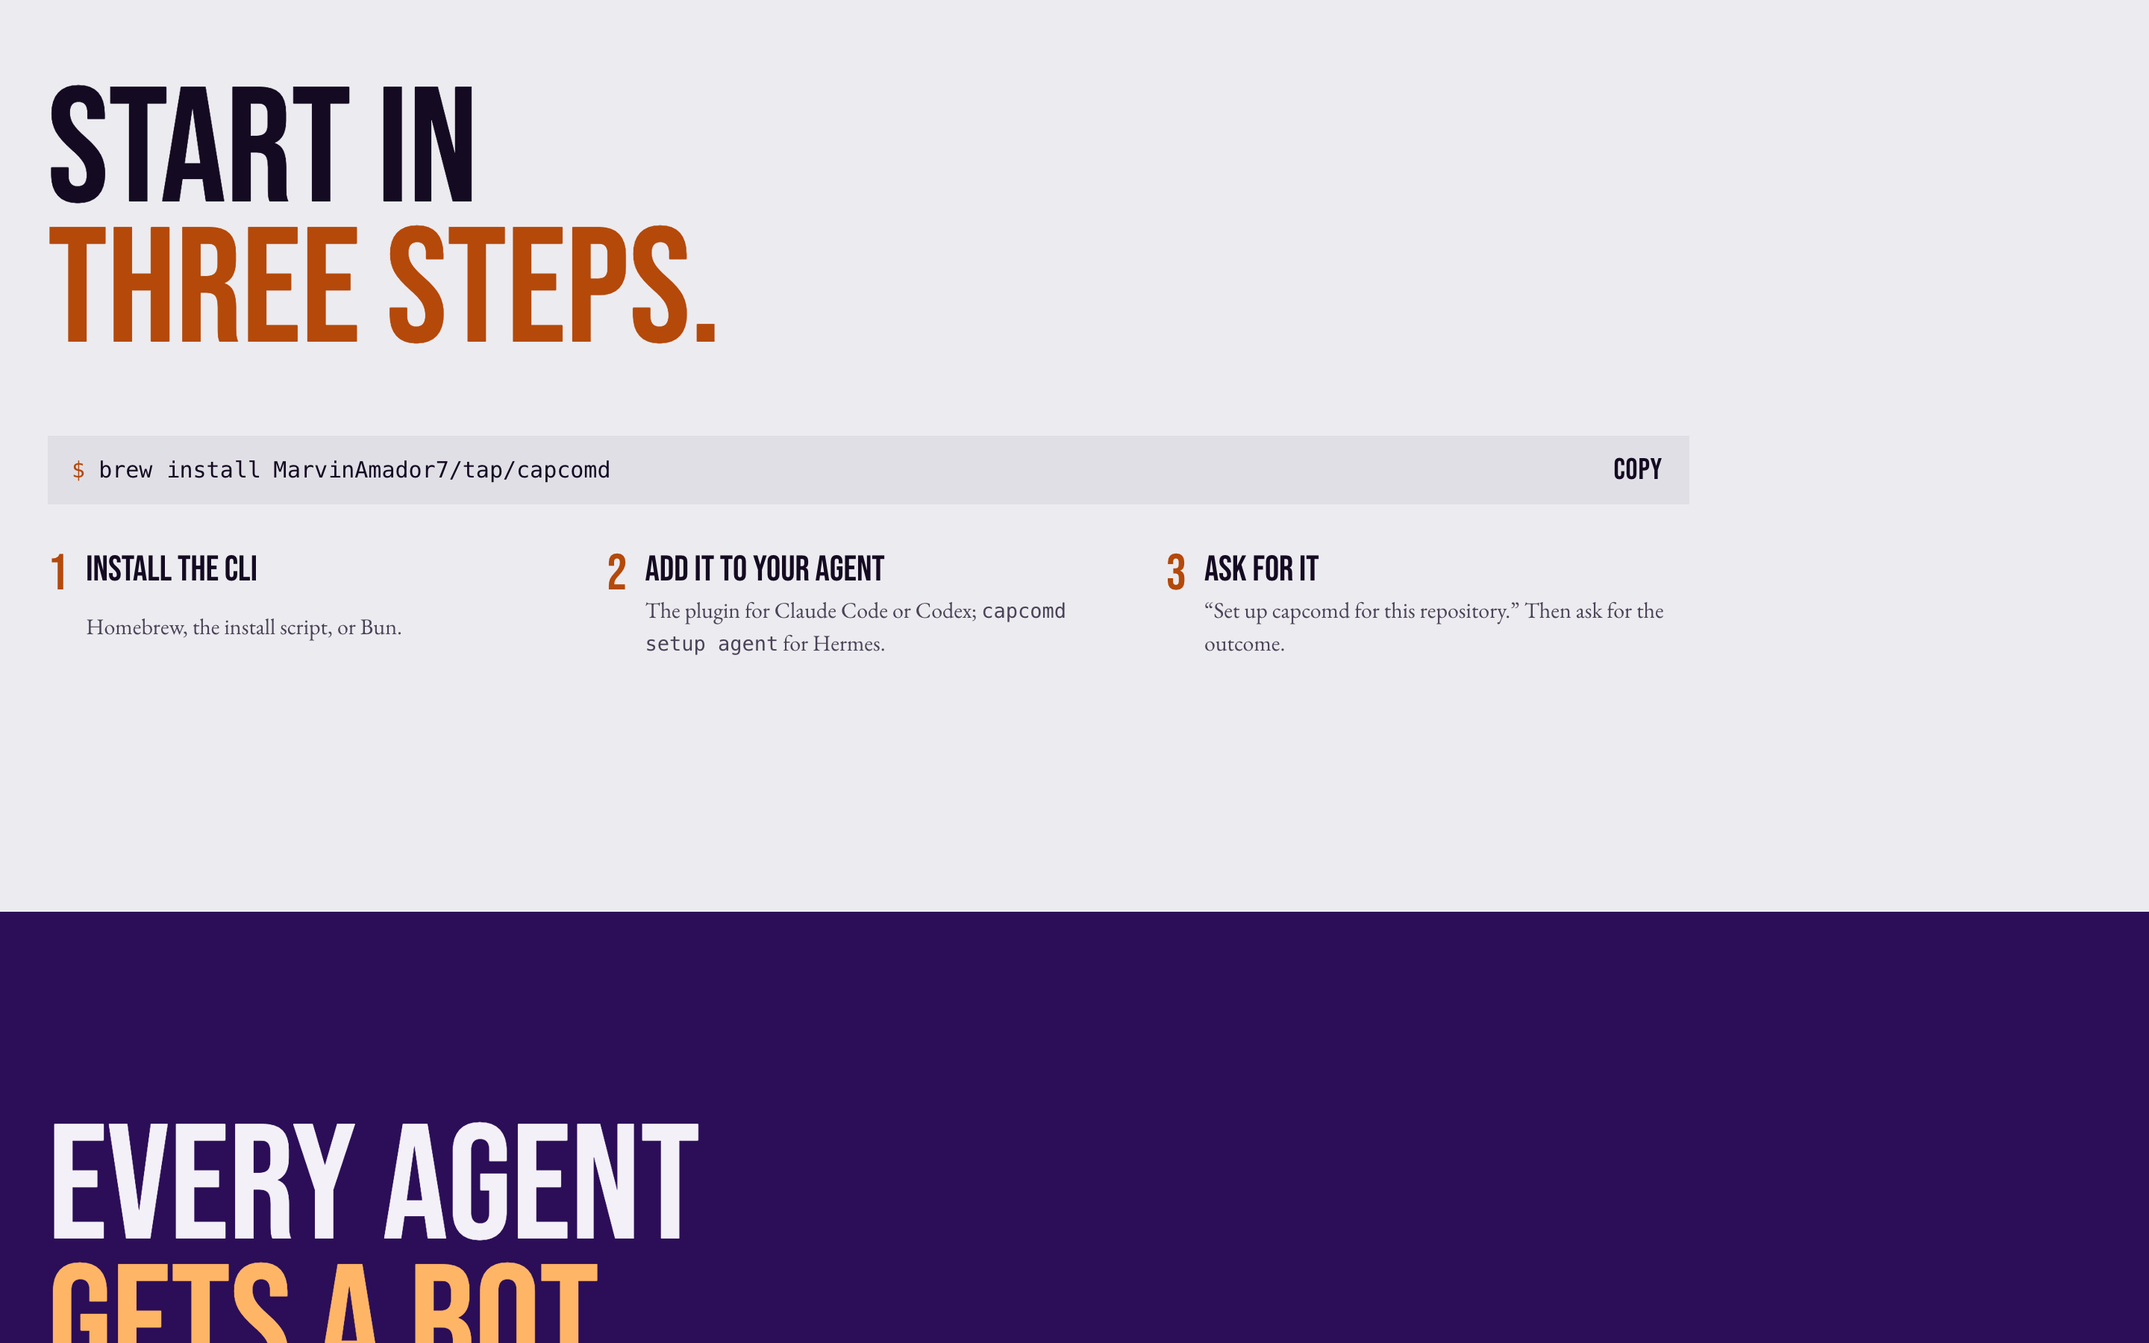
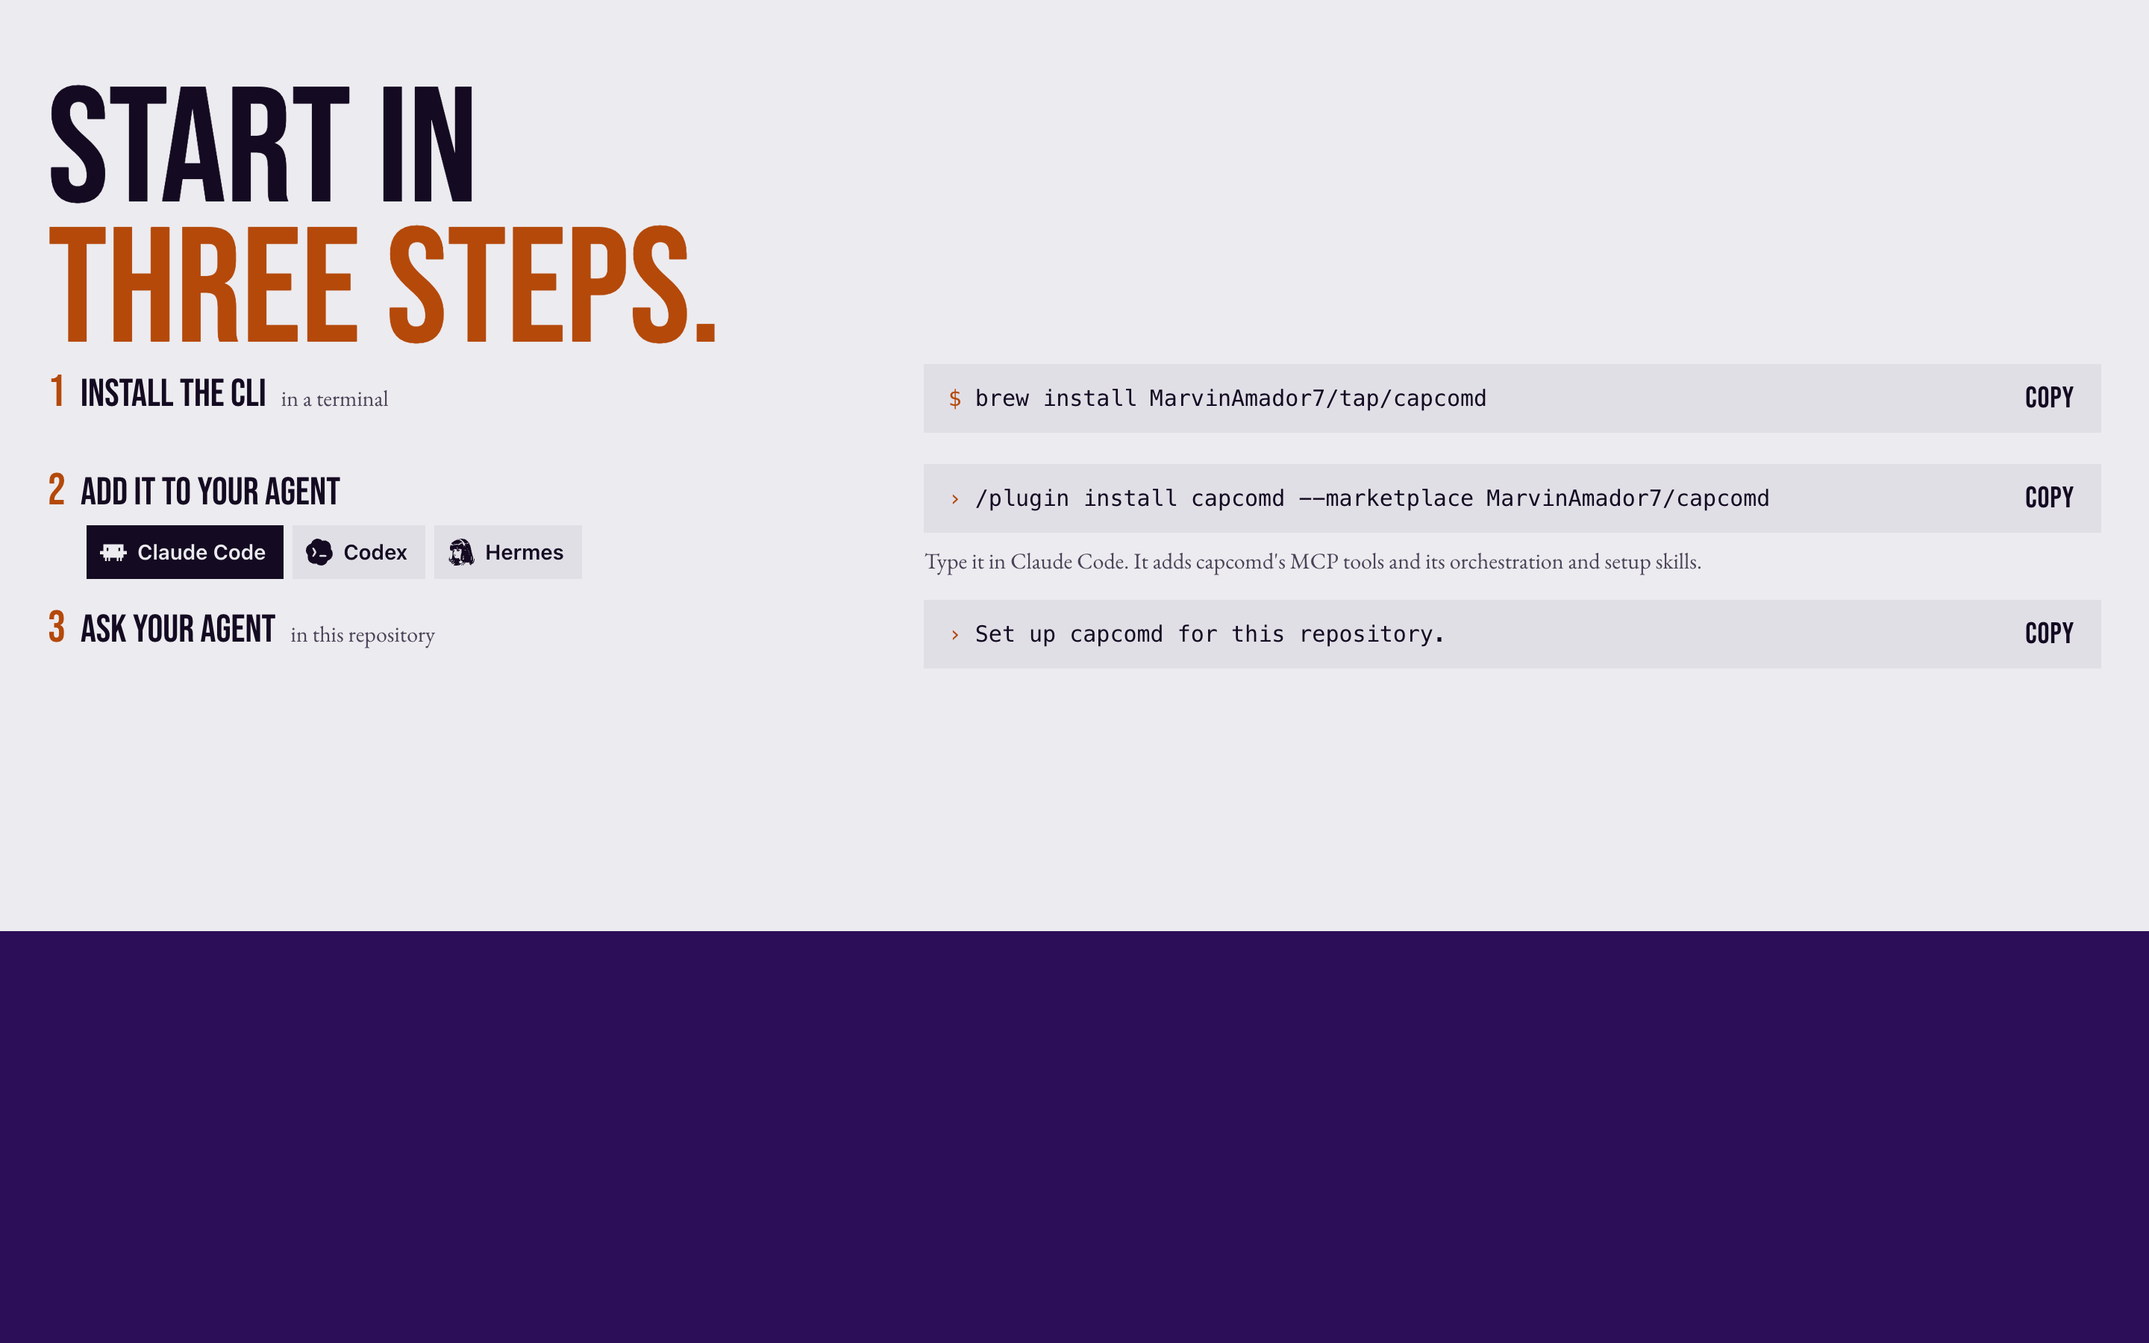
site: the install as three clear steps, each with its exact command
The bare "Or copy it for [icons]" row was unclear. The hero, and Start in
three steps, now show three rows:
1. Install the CLI (in a terminal): the brew command.
2. Add it to your agent, with a tab each for Claude Code, Codex and Hermes:
   that agent's exact command and where to run it. The Claude Code command
   is typed in Claude Code; Codex runs `codex plugin marketplace add`, then
   /plugins; Hermes runs `capcomd setup agent` in the repository.
3. Ask your agent: "Set up capcomd for this repository."

Each row has its own Copy button, terminal commands show `$` and agent
prompts show `›`, and commands wrap on phones. The tabs are a radio group
with arrow keys.

diff --git a/site/components/AgentInstall.tsx b/site/components/AgentInstall.tsx
@@ -1,16 +1,15 @@
 "use client";
 
-// One button per coding agent that copies the README's "add capcomd to your agent" step for it (Quickstart, step 1),
-// and says what to do next. Until the page script runs the row keeps its space but stays invisible (no layout shift);
-// the README link beside it works either way.
+// The install flow (README "Quickstart"): install the CLI, add capcomd to your agent, ask it to set things up.
 import { useEffect, useRef, useState } from "react";
 import { AGENT_ICONS } from "@/lib/agent-icons";
 
 const ASK = "Set up capcomd for this repository.";
+// README "Quickstart", step 1 ("Add capcomd to your agent"), per agent.
 const AGENTS = [
-  { id: "claude", name: "Claude Code", copy: "/plugin install capcomd --marketplace MarvinAmador7/capcomd", next: <>Paste it into Claude Code, then ask: &ldquo;{ASK}&rdquo; Verified live.</> },
-  { id: "codex", name: "Codex", copy: "codex plugin marketplace add MarvinAmador7/capcomd", next: <>Run it in a terminal, install capcomd from <code>/plugins</code> in Codex, then ask: &ldquo;{ASK}&rdquo; Built to OpenAI&apos;s plugin format; not yet tried in Codex.</> },
-  { id: "hermes", name: "Hermes", copy: "curl -fsSL https://raw.githubusercontent.com/MarvinAmador7/capcomd/main/install.sh | sh && capcomd setup agent", next: <>Run it in your repository, then ask Hermes: &ldquo;{ASK}&rdquo; Setup tested against Hermes&apos;s config.</> },
+  { id: "claude", name: "Claude Code", prompt: "›", copy: "/plugin install capcomd --marketplace MarvinAmador7/capcomd", where: <>Type it in Claude Code. It adds capcomd&apos;s MCP tools and its orchestration and setup skills.</> },
+  { id: "codex", name: "Codex", prompt: "$", copy: "codex plugin marketplace add MarvinAmador7/capcomd", where: <>Run it in a terminal, then install capcomd from <code>/plugins</code> in Codex.</> },
+  { id: "hermes", name: "Hermes", prompt: "$", copy: "capcomd setup agent", where: <>Run it in your repository. It adds capcomd&apos;s MCP server and skills to Hermes.</> },
 ] as const;
 
 async function copy(text: string): Promise<boolean> {
@@ -25,42 +24,60 @@ async function copy(text: string): Promise<boolean> {
   } catch { return false; }
 }
 
-export function AgentInstall() {
-  const [ready, setReady] = useState(false);
-  const [done, setDone] = useState<{ id: string; ok: boolean } | null>(null);
-  const timer = useRef(0);
-  useEffect(() => { setReady(true); return () => clearTimeout(timer.current); }, []);
-  const a = done && AGENTS.find((x) => x.id === done.id);
+/** The README's Quickstart as three rows, each with the exact command to copy and where to run it. Step 2 has a tab
+ *  per agent. Without the script the Claude Code row is shown and every command can still be selected. */
+export function InstallFlow() {
+  const [agent, setAgent] = useState<(typeof AGENTS)[number]["id"]>("claude");
+  const a = AGENTS.find((x) => x.id === agent)!;
   return (
-    <div className={`agents${ready ? "" : " is-waiting"}`} aria-hidden={ready ? undefined : true}>
-      <div className="agents__row">
-        <span className="agents__lbl">Or copy it for</span>
-        {AGENTS.map((x) => (
-          <button key={x.id} type="button" className={`agents__btn${done?.id === x.id && done.ok ? " is-done" : ""}`} aria-label={`Copy the install command for ${x.name}`}
-            onClick={async () => { const ok = await copy(x.copy); setDone({ id: x.id, ok }); clearTimeout(timer.current); timer.current = window.setTimeout(() => setDone(null), 9000); }}>
-            <svg viewBox="0 0 24 24" fillRule="evenodd" aria-hidden="true" dangerouslySetInnerHTML={{ __html: AGENT_ICONS[x.id] }} />
-            <span>{x.name}</span>
-          </button>
-        ))}
-      </div>
-      <p className="agents__status" role="status">
-        {a ? <><b>{done!.ok ? `Copied for ${a.name}` : `Couldn't copy; for ${a.name}, use`}</b><code>{a.copy}</code>{done!.ok ? <span>{a.next}</span> : null}</> : null}
-      </p>
-    </div>
+    <ol className="flow">
+      <li className="flow__step">
+        <p className="flow__head"><span className="flow__n" aria-hidden="true">1</span><b>Install the CLI</b><small>in a terminal</small></p>
+        <InstallCommand cmd="brew install MarvinAmador7/tap/capcomd" label="the install command" />
+      </li>
+      <li className="flow__step">
+        <div className="flow__head">
+          <span className="flow__n" aria-hidden="true">2</span><b>Add it to your agent</b>
+          <div className="flow__tabs" role="radiogroup" aria-label="Your agent">
+            {AGENTS.map((x, k) => (
+              <button key={x.id} type="button" role="radio" aria-checked={agent === x.id} tabIndex={agent === x.id ? 0 : -1}
+                className={`flow__tab${agent === x.id ? " is-on" : ""}`} onClick={() => setAgent(x.id)}
+                onKeyDown={(e) => {
+                  const d = e.key === "ArrowRight" || e.key === "ArrowDown" ? 1 : e.key === "ArrowLeft" || e.key === "ArrowUp" ? -1 : 0;
+                  if (!d) return;
+                  e.preventDefault();
+                  const n = (k + d + AGENTS.length) % AGENTS.length;
+                  setAgent(AGENTS[n]!.id);
+                  (e.currentTarget.parentElement?.querySelectorAll("button")[n] as HTMLButtonElement | undefined)?.focus();
+                }}>
+                <svg viewBox="0 0 24 24" fillRule="evenodd" aria-hidden="true" dangerouslySetInnerHTML={{ __html: AGENT_ICONS[x.id] }} />
+                <span>{x.name}</span>
+              </button>
+            ))}
+          </div>
+        </div>
+        <InstallCommand key={a.id} cmd={a.copy} prompt={a.prompt} label={`the ${a.name} command`} />
+        <p className="flow__where">{a.where}</p>
+      </li>
+      <li className="flow__step">
+        <p className="flow__head"><span className="flow__n" aria-hidden="true">3</span><b>Ask your agent</b><small>in this repository</small></p>
+        <InstallCommand cmd={ASK} prompt="›" label="the request" />
+      </li>
+    </ol>
   );
 }
 
 /** The install command on the page, with a Copy button (the text stays selectable without the script). */
-export function InstallCommand({ cmd }: { cmd: string }) {
+export function InstallCommand({ cmd, prompt = "$", label = "the install command" }: { cmd: string; prompt?: string; label?: string }) {
   const [done, setDone] = useState<boolean | null>(null);
   const [ready, setReady] = useState(false);
   const timer = useRef(0);
   useEffect(() => { setReady(true); return () => clearTimeout(timer.current); }, []);
   return (
     <div className="cmd">
-      <code className="cmd__text"><span aria-hidden="true">$ </span>{cmd}</code>
+      <code className="cmd__text"><span aria-hidden="true">{prompt} </span>{cmd}</code>
       {ready ? (
-        <button type="button" className="cmd__copy" aria-label={done ? "Copied the install command" : "Copy the install command"}
+        <button type="button" className="cmd__copy" aria-label={done ? `Copied ${label}` : `Copy ${label}`}
           onClick={async () => { const ok = await copy(cmd); setDone(ok); clearTimeout(timer.current); timer.current = window.setTimeout(() => setDone(null), 2400); }}>
           {done === null ? "Copy" : done ? "Copied" : "Select it"}
         </button>

diff --git a/site/app/globals.css b/site/app/globals.css
@@ -886,27 +886,6 @@ html:not(.js) .stage__title { display: block; }
   }
 }
 
-/* The hero's install buttons: one per coding agent, each copies the README's step 1 for it. */
-@layer components {
-  .agents { position: relative; margin: 0; }
-  .agents.is-waiting { visibility: hidden; }
-  .agents__row { display: flex; flex-wrap: wrap; align-items: center; gap: 4px; }
-  .agents__lbl { margin-right: 4px; font-size: var(--text-body); }
-  .agents__btn { all: unset; box-sizing: border-box; position: relative; display: inline-flex; align-items: center; gap: 8px; height: 44px; padding: 0 8px; border-radius: 8px; color: var(--color-ink); font: 600 15px/1 var(--font-ui); white-space: nowrap; cursor: pointer; transition: transform 140ms var(--ease-out), color 160ms ease; }
-  .agents__btn svg { flex: none; width: 24px; height: 24px; fill: currentColor; }
-  .agents__btn span { text-decoration: underline; text-decoration-color: transparent; text-underline-offset: 4px; transition: text-decoration-color 160ms ease; }
-  .agents__btn:hover span { text-decoration-color: currentColor; }
-  .agents__btn:hover { color: var(--color-plum); }
-  .agents__btn:active { transform: scale(0.96); }
-  .agents__btn:focus-visible { outline: 3px solid var(--color-ink); outline-offset: 2px; }
-  .agents__btn.is-done { color: var(--color-link); }
-  .agents__status { position: absolute; z-index: 5; left: 0; top: calc(100% + 10px); width: min(440px, 100%); margin: 0; padding: 12px 14px; border-radius: 10px; background: var(--color-ink); color: var(--color-paper); font: 400 14px/1.45 var(--font-ui); }
-  .agents__status:empty { display: none; }
-  .agents__status b { display: block; font-weight: 600; }
-  .agents__status code { display: block; margin: 6px 0; color: var(--color-accent-light); overflow-wrap: anywhere; }
-  .agents__status span code { display: inline; margin: 0; }
-  @media (prefers-reduced-motion: reduce) { .agents__btn, .agents__btn span { transition: none; } }
-}
 
 /* Sandboxes: what agents run on, by provider. */
 @layer components {
@@ -991,20 +970,14 @@ html:not(.js) .stage__title { display: block; }
 }
 
 /* The hero's install bar: brew, the agent buttons and the project link, one row under the lead. */
-.hero__install { grid-column: 1 / -1; display: grid; grid-template-columns: minmax(0, 1fr) auto auto; align-items: center; gap: 20px 40px; margin-top: 36px; }
-.hero__install .button.hero__oss { grid-column: auto; justify-self: end; }
+.hero__install { grid-column: 1 / -1; display: grid; gap: 24px; justify-items: start; margin-top: 36px; }
+.hero__install .flow { justify-self: stretch; }
+.hero__install .button.hero__oss { grid-column: auto; justify-self: start; }
 .hero__fine { grid-column: 1 / -1; margin: 12px 0 0; font-size: var(--text-small); color: var(--color-muted); }
 @media (max-width: 1100px) {
   .hero__lead { grid-column: 1 / -1; }
-  .hero__install { grid-template-columns: minmax(0, 1fr); gap: 18px; margin-top: 28px; }
-  .hero__install .button.hero__oss { justify-self: start; }
+  .hero__install { gap: 18px; margin-top: 28px; }
   .hero__fine { margin-top: 14px; }
-}
-@media (max-width: 760px) {
-  .agents__row { row-gap: 2px; }
-  .agents__lbl { flex-basis: 100%; }
-  .agents__btn { padding: 0 6px; margin-left: -6px; }
-  .agents__btn + .agents__btn { margin-left: 4px; }
 }
 
 /* The install command, set on the page: a flat tone step, square like the buttons. */
@@ -1157,15 +1130,38 @@ html:not(.js) .stage__title { display: block; }
   }
 }
 
-/* The three steps (README Quickstart), under the hero's install bar and again in the close. */
+
+/* The install flow: three rows, each a step, a command to copy, and where to run it. */
 @layer components {
-  .steps { list-style: none; margin: 0; padding: 0; display: grid; grid-template-columns: repeat(3, minmax(0, 1fr)); gap: 24px; counter-reset: step; }
-  .steps li { counter-increment: step; display: grid; grid-template-columns: auto 1fr; column-gap: 12px; }
-  .steps li::before { content: counter(step); grid-row: span 2; font: 400 34px/0.9 var(--font-display); color: var(--color-link); }
-  .steps b { font: 400 24px/1 var(--font-display); text-transform: uppercase; }
-  .steps span { margin-top: 4px; font-size: var(--text-small); color: var(--color-muted); }
-  .hero__steps { grid-column: 1 / -1; margin-top: 28px; }
-  .stage__cmd { margin-top: 10px !important; font-size: var(--text-small); opacity: 0.8; }
-  .start__body { display: grid; gap: 32px; margin-top: 48px; max-width: 1100px; }
-  @media (max-width: 760px) { .steps { grid-template-columns: 1fr; gap: 16px; } .hero__steps { margin-top: 22px; } }
+  .flow { list-style: none; margin: 0; padding: 0; display: grid; gap: 14px; }
+  .flow__step { display: grid; grid-template-columns: minmax(0, 5fr) minmax(0, 7fr); column-gap: 24px; row-gap: 6px; align-items: center; }
+  .flow__head { grid-row: span 2; align-self: start; margin: 0; display: flex; flex-wrap: wrap; align-items: baseline; column-gap: 10px; row-gap: 8px; padding-top: 6px; }
+  .flow__n { font: 400 30px/0.9 var(--font-display); color: var(--color-link); }
+  .flow__head b { font: 400 26px/1 var(--font-display); text-transform: uppercase; }
+  .flow__head small { font-size: var(--text-small); color: var(--color-muted); }
+  .flow__tabs { flex-basis: 100%; display: flex; flex-wrap: wrap; gap: 6px; padding-left: 26px; }
+  .flow__tab { all: unset; box-sizing: border-box; cursor: pointer; display: inline-flex; align-items: center; gap: 7px; height: 36px; padding: 0 12px 0 9px; background: var(--color-surface); color: var(--color-ink); font: 600 14px/1 var(--font-ui); transition: background-color 160ms ease, color 160ms ease, transform 140ms var(--ease-out); }
+  .flow__tab svg { width: 18px; height: 18px; fill: currentColor; }
+  .flow__tab:hover { color: var(--color-plum); }
+  .flow__tab.is-on { background: var(--color-ink); color: var(--color-paper); }
+  .flow__tab:active { transform: scale(0.97); }
+  .flow__tab:focus-visible { outline: 3px solid var(--color-ink); outline-offset: 2px; }
+  .flow__step .cmd { align-self: center; }
+  .flow__where { grid-column: 2; margin: 0; font-size: var(--text-small); color: var(--color-muted); }
+  .flow__where code { font-size: 0.95em; }
+  @media (max-width: 1100px) {
+    .flow__step { grid-template-columns: 1fr; }
+    .flow__head { grid-row: auto; padding-top: 0; }
+    .flow__where { grid-column: 1; }
+  }
+  @media (max-width: 760px) {
+    .flow { gap: 22px; } .flow__tabs { padding-left: 0; }
+  }
+}
+
+/* Phones: the flow's commands wrap instead of scrolling (outside the layer, so it beats the unlayered .cmd rules). */
+@media (max-width: 760px) {
+  .flow .cmd { height: auto; min-height: 46px; align-items: flex-start; padding-top: 11px; padding-bottom: 11px; }
+  .flow .cmd__text { white-space: normal; overflow-wrap: anywhere; line-height: 1.5; }
+  .flow .cmd__copy { margin-top: -6px; }
 }

diff --git a/site/components/Hero.tsx b/site/components/Hero.tsx
@@ -1,6 +1,5 @@
-import { AgentInstall, InstallCommand } from "./AgentInstall";
+import { InstallFlow } from "./AgentInstall";
 import { HeroCrew } from "./crew";
-import { Steps } from "./Steps";
 import { delay } from "./marks";
 import { Nav } from "./Nav";
 import { SITE } from "@/lib/site";
@@ -22,11 +21,9 @@ export function Hero() {
           Your coding agent (Claude Code, Codex or Hermes) spawns a crew of agents, each in its own VM or container on its own branch. Only the commit that passed your checks and a reviewer agent lands, exactly once, even if the engine crashes mid-merge.
         </p>
         <div className="hero__install" data-load style={delay(500)} id="install">
-          <InstallCommand cmd="brew install MarvinAmador7/tap/capcomd" />
-          <AgentInstall />
+          <InstallFlow />
           <a className="button hero__oss" href={SITE.repo}>View on GitHub</a>
         </div>
-        <Steps className="hero__steps" />
         <p className="hero__fine" data-load style={delay(560)}>Open source. One executable for macOS and Linux. Claude Code is verified live; the Codex and Hermes setups are built.</p>
       </div>
     </header>

diff --git a/site/components/Start.tsx b/site/components/Start.tsx
@@ -1,6 +1,5 @@
-import { InstallCommand } from "./AgentInstall";
+import { InstallFlow } from "./AgentInstall";
 import { delay } from "./marks";
-import { Steps } from "./Steps";
 
 // The close's install reprise (README "Quickstart"): the same three steps as the hero, where a reader who scrolled
 // the whole page is ready to try it.
@@ -9,8 +8,7 @@ export function Start() {
     <section className="sec start" id="start" aria-labelledby="start-title">
       <h2 className="big" id="start-title" data-reveal><span>Start in</span> <span>three steps.</span></h2>
       <div className="start__body" data-reveal style={delay(80)}>
-        <InstallCommand cmd="brew install MarvinAmador7/tap/capcomd" />
-        <Steps className="start__steps" />
+        <InstallFlow />
       </div>
     </section>
   );
